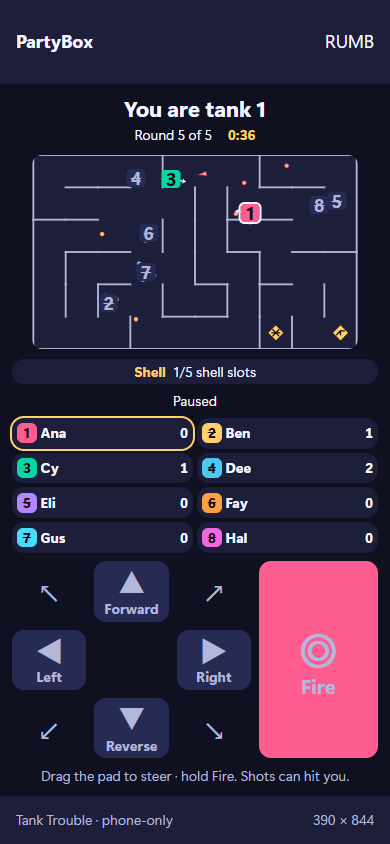
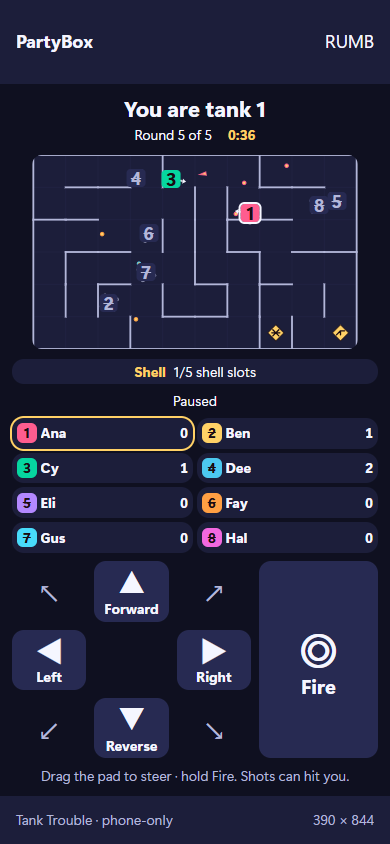
fix(tank-trouble): keep disabled Fire readable

diff --git a/jobs/P22-ricochet-rumble/media/done-phone-only.html b/jobs/P22-ricochet-rumble/media/done-phone-only.html
@@ -711,7 +711,8 @@ ight is the :root default above) ────────
         color: var(--pb-on-accent);
       }
       ._pad_fc2e17:disabled {
-        color: var(--pb-text-muted);
+        background: var(--pb-surface-2);
+        color: var(--pb-text);
         border-style: dashed;
       }
       ._arrow_fc2e17 {

diff --git a/jobs/P22-ricochet-rumble/media/done-phone-tv.html b/jobs/P22-ricochet-rumble/media/done-phone-tv.html
@@ -711,7 +711,8 @@ ight is the :root default above) ────────
         color: var(--pb-on-accent);
       }
       ._pad_fc2e17:disabled {
-        color: var(--pb-text-muted);
+        background: var(--pb-surface-2);
+        color: var(--pb-text);
         border-style: dashed;
       }
       ._arrow_fc2e17 {

diff --git a/jobs/P22-ricochet-rumble/media/done-spectator.html b/jobs/P22-ricochet-rumble/media/done-spectator.html
@@ -711,7 +711,8 @@ ight is the :root default above) ────────
         color: var(--pb-on-accent);
       }
       ._pad_fc2e17:disabled {
-        color: var(--pb-text-muted);
+        background: var(--pb-surface-2);
+        color: var(--pb-text);
         border-style: dashed;
       }
       ._arrow_fc2e17 {

diff --git a/jobs/P22-ricochet-rumble/media/done-tied-long-phone-only.html b/jobs/P22-ricochet-rumble/media/done-tied-long-phone-only.html
@@ -711,7 +711,8 @@ ight is the :root default above) ────────
         color: var(--pb-on-accent);
       }
       ._pad_fc2e17:disabled {
-        color: var(--pb-text-muted);
+        background: var(--pb-surface-2);
+        color: var(--pb-text);
         border-style: dashed;
       }
       ._arrow_fc2e17 {

diff --git a/jobs/P22-ricochet-rumble/media/done-tied-long-phone-tv.html b/jobs/P22-ricochet-rumble/media/done-tied-long-phone-tv.html
@@ -711,7 +711,8 @@ ight is the :root default above) ────────
         color: var(--pb-on-accent);
       }
       ._pad_fc2e17:disabled {
-        color: var(--pb-text-muted);
+        background: var(--pb-surface-2);
+        color: var(--pb-text);
         border-style: dashed;
       }
       ._arrow_fc2e17 {

diff --git a/jobs/P22-ricochet-rumble/media/done-tied-long-spectator.html b/jobs/P22-ricochet-rumble/media/done-tied-long-spectator.html
@@ -711,7 +711,8 @@ ight is the :root default above) ────────
         color: var(--pb-on-accent);
       }
       ._pad_fc2e17:disabled {
-        color: var(--pb-text-muted);
+        background: var(--pb-surface-2);
+        color: var(--pb-text);
         border-style: dashed;
       }
       ._arrow_fc2e17 {

diff --git a/jobs/P22-ricochet-rumble/media/done-tied-long-tv.html b/jobs/P22-ricochet-rumble/media/done-tied-long-tv.html
@@ -711,7 +711,8 @@ ight is the :root default above) ────────
         color: var(--pb-on-accent);
       }
       ._pad_fc2e17:disabled {
-        color: var(--pb-text-muted);
+        background: var(--pb-surface-2);
+        color: var(--pb-text);
         border-style: dashed;
       }
       ._arrow_fc2e17 {

diff --git a/jobs/P22-ricochet-rumble/media/done-tv.html b/jobs/P22-ricochet-rumble/media/done-tv.html
@@ -711,7 +711,8 @@ ight is the :root default above) ────────
         color: var(--pb-on-accent);
       }
       ._pad_fc2e17:disabled {
-        color: var(--pb-text-muted);
+        background: var(--pb-surface-2);
+        color: var(--pb-text);
         border-style: dashed;
       }
       ._arrow_fc2e17 {

diff --git a/jobs/P22-ricochet-rumble/media/play-active-long-phone-only.html b/jobs/P22-ricochet-rumble/media/play-active-long-phone-only.html
@@ -711,7 +711,8 @@ ight is the :root default above) ────────
         color: var(--pb-on-accent);
       }
       ._pad_fc2e17:disabled {
-        color: var(--pb-text-muted);
+        background: var(--pb-surface-2);
+        color: var(--pb-text);
         border-style: dashed;
       }
       ._arrow_fc2e17 {

diff --git a/jobs/P22-ricochet-rumble/media/play-active-long-phone-tv.html b/jobs/P22-ricochet-rumble/media/play-active-long-phone-tv.html
@@ -711,7 +711,8 @@ ight is the :root default above) ────────
         color: var(--pb-on-accent);
       }
       ._pad_fc2e17:disabled {
-        color: var(--pb-text-muted);
+        background: var(--pb-surface-2);
+        color: var(--pb-text);
         border-style: dashed;
       }
       ._arrow_fc2e17 {

diff --git a/jobs/P22-ricochet-rumble/media/play-active-long-spectator.html b/jobs/P22-ricochet-rumble/media/play-active-long-spectator.html
@@ -711,7 +711,8 @@ ight is the :root default above) ────────
         color: var(--pb-on-accent);
       }
       ._pad_fc2e17:disabled {
-        color: var(--pb-text-muted);
+        background: var(--pb-surface-2);
+        color: var(--pb-text);
         border-style: dashed;
       }
       ._arrow_fc2e17 {

diff --git a/jobs/P22-ricochet-rumble/media/play-active-long-tv.html b/jobs/P22-ricochet-rumble/media/play-active-long-tv.html
@@ -711,7 +711,8 @@ ight is the :root default above) ────────
         color: var(--pb-on-accent);
       }
       ._pad_fc2e17:disabled {
-        color: var(--pb-text-muted);
+        background: var(--pb-surface-2);
+        color: var(--pb-text);
         border-style: dashed;
       }
       ._arrow_fc2e17 {
